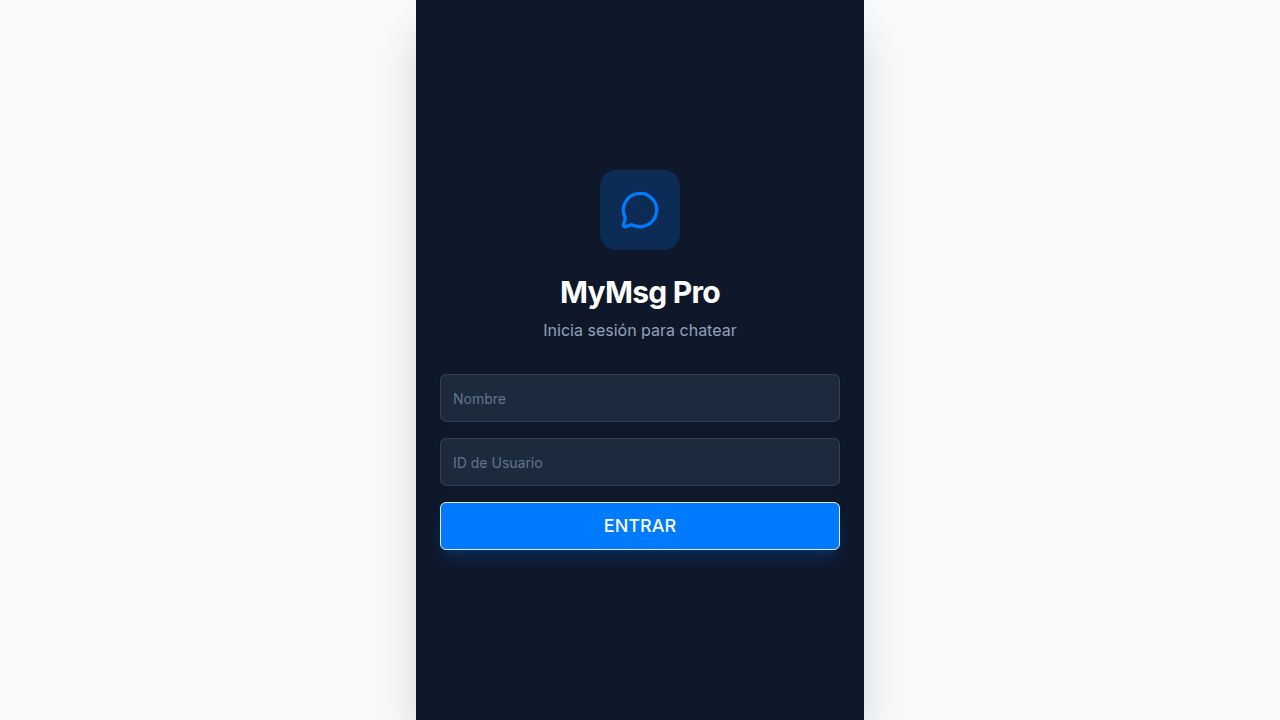
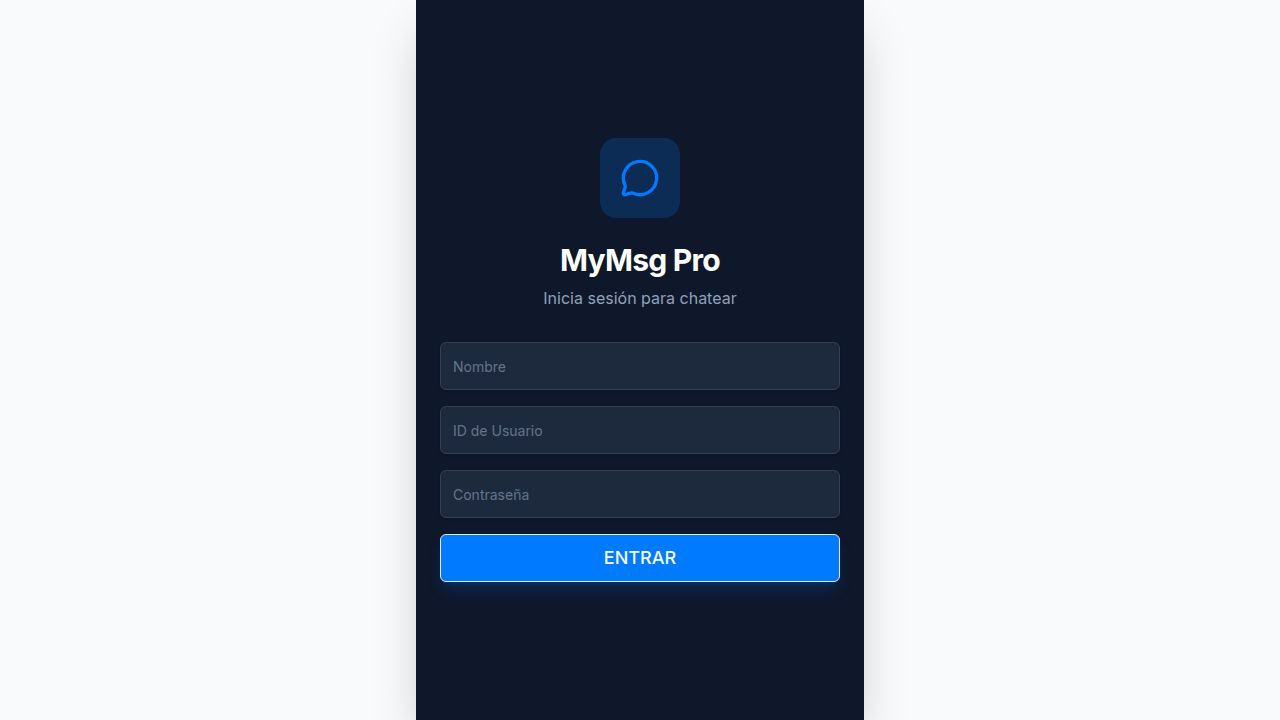
Add password functionality to user login and data persistence
Update `store.tsx` to include a password field in the User interface and modify the login function to accept and store passwords. Implement a `verifyPassword` function for user authentication and persistence. Modify `login.tsx` to include a password input field, handle password verification, and integrate with the updated store logic.

Replit-Commit-Author: Agent
Replit-Commit-Session-Id: 2e6042e2-d1aa-4639-9a1b-1480bbfe3cd6
Replit-Commit-Checkpoint-Type: full_checkpoint
Replit-Commit-Event-Id: 151ba625-3d18-421c-a08f-d37af6036319
Replit-Commit-Screenshot-Url: https://storage.googleapis.com/screenshot-production-us-central1/fc137419-dabf-454f-91c5-862c0f67e9d3/2e6042e2-d1aa-4639-9a1b-1480bbfe3cd6/Agom4g1
Replit-Helium-Checkpoint-Created: true

Changed region(s): [[0.3438, 0.55, 0.6562, 0.825], [0.4062, 0.1833, 0.5938, 0.4889], [0.3438, 0.4889, 0.4062, 0.5194]]

diff --git a/client/src/pages/login.tsx b/client/src/pages/login.tsx
@@ -12,9 +12,9 @@ const ADMIN_ID = "12345670";
 const ADMIN_PASSWORD = "1324567";
 
 export default function LoginPage() {
-  const { login, currentUser } = useStore();
+  const { login, currentUser, verifyPassword } = useStore();
   const [, setLocation] = useLocation();
-  const { register, handleSubmit, formState: { errors }, reset } = useForm<{ name: string; id: string }>();
+  const { register, handleSubmit, formState: { errors }, reset } = useForm<{ name: string; id: string; password: string }>();
   const [adminPassword, setAdminPassword] = useState("");
   const [showAdminPassword, setShowAdminPassword] = useState(false);
   const [loginError, setLoginError] = useState("");
@@ -25,10 +25,10 @@ export default function LoginPage() {
     }
   }, [currentUser, setLocation]);
 
-  const onSubmit = (data: { name: string; id: string }) => {
+  const onSubmit = (data: { name: string; id: string; password: string }) => {
     setLoginError("");
     
-    // If trying to login as admin, require password
+    // If trying to login as admin, require admin password
     if (data.id === ADMIN_ID) {
       if (!adminPassword) {
         setLoginError("Se requiere código de administrador");
@@ -42,7 +42,13 @@ export default function LoginPage() {
       }
     }
     
-    login(data.name, data.id);
+    // Verify user password
+    if (!verifyPassword(data.id, data.password)) {
+      setLoginError("Contraseña incorrecta");
+      return;
+    }
+    
+    login(data.name, data.id, data.password);
     reset();
     setAdminPassword("");
     setShowAdminPassword(false);
@@ -82,6 +88,14 @@ export default function LoginPage() {
               {...register("id", { required: true })}
               type="text"
               placeholder="ID de Usuario" 
+              className="bg-slate-800 border-slate-700 text-white placeholder:text-slate-500 h-12"
+            />
+          </div>
+          <div className="space-y-2">
+            <Input 
+              {...register("password", { required: true })}
+              type="password"
+              placeholder="Contraseña" 
               className="bg-slate-800 border-slate-700 text-white placeholder:text-slate-500 h-12"
             />
           </div>

diff --git a/client/src/lib/store.tsx b/client/src/lib/store.tsx
@@ -8,6 +8,7 @@ export interface User {
   id: string;
   name: string;
   avatar?: string;
+  password: string;
 }
 
 export interface Message {
@@ -45,7 +46,8 @@ export interface Report {
 interface StoreContextType {
   currentUser: User | null;
   isOnline: boolean;
-  login: (name: string, id: string) => void;
+  login: (name: string, id: string, password: string) => void;
+  verifyPassword: (id: string, password: string) => boolean;
   logout: () => void;
   chats: Chat[];
   createGroup: (name: string) => void;
@@ -123,14 +125,26 @@ export function StoreProvider({ children }: { children: ReactNode }) {
   useEffect(() => {
     if (currentUser) {
       localStorage.setItem("mymsg_user", JSON.stringify(currentUser));
+      localStorage.setItem(`mymsg_user_${currentUser.id}`, JSON.stringify(currentUser));
     } else {
       localStorage.removeItem("mymsg_user");
     }
   }, [currentUser]);
 
-  const login = (name: string, id: string) => {
-    const user = { id, name, avatar: generateUserAvatarSvg(name) };
+  const login = (name: string, id: string, password: string) => {
+    const user = { id, name, password, avatar: generateUserAvatarSvg(name) };
     setCurrentUser(user);
+  };
+
+  const verifyPassword = (id: string, password: string): boolean => {
+    const savedUser = localStorage.getItem(`mymsg_user_${id}`);
+    if (!savedUser) return true; // First login, accept any password
+    try {
+      const user = JSON.parse(savedUser);
+      return user.password === password;
+    } catch {
+      return false;
+    }
   };
 
   const logout = () => {
@@ -262,6 +276,7 @@ export function StoreProvider({ children }: { children: ReactNode }) {
       currentUser,
       isOnline,
       login,
+      verifyPassword,
       logout,
       chats,
       createGroup,
